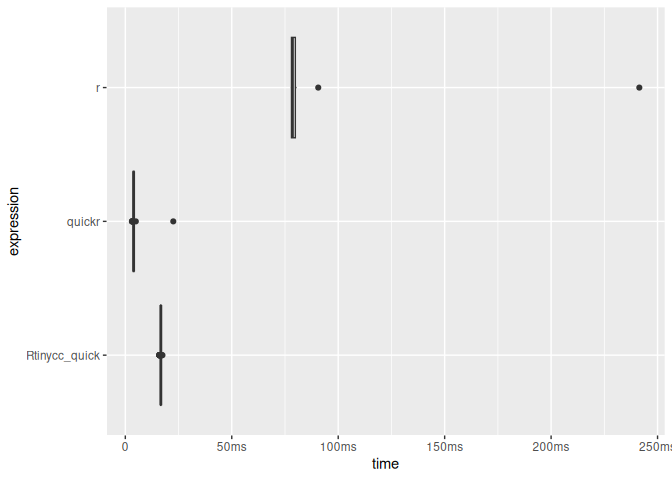
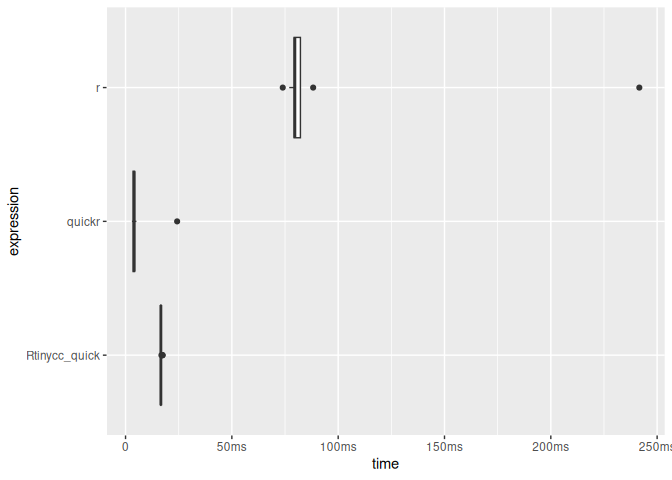
merged rjit

diff --git a/README.md b/README.md
@@ -19,9 +19,9 @@ providing both CLI access and a libtcc-backed in-memory compiler. It
 includes an experimental FFI inspired by [Bun’s
 FFI](https://bun.com/docs/runtime/ffi) for binding C symbols with
 predictable type conversions and pointer utilities. The package runs on
-unix-alikes ( windows may never be supported to subtle UCRT issues, so
-use WSL2) and focuses on embedding TinyCC and enabling JIT-compiled
-bindings directly from R. Combined with
+unix-alikes and windows( pace UCRT issues, so WSL2 is recommended) and
+focuses on embedding TinyCC and enabling JIT-compiled bindings directly
+from R. Combined with
 [treesitter.c](https://github.com/sounkou-bioinfo/treesitter.c), which
 provides C header parsers, it can be used to rapidly generate
 declarative bindings.
@@ -177,7 +177,7 @@ tcc_read_cstring(ptr)
 tcc_read_bytes(ptr, 5)
 #> [1] 68 65 6c 6c 6f
 tcc_ptr_addr(ptr, hex = TRUE)
-#> [1] "0x5970213be520"
+#> [1] "0x5e2a7b3d76b0"
 tcc_ptr_is_null(ptr)
 #> [1] FALSE
 tcc_free(ptr)
@@ -208,11 +208,11 @@ through output parameters.
 ptr_ref <- tcc_malloc(.Machine$sizeof.pointer %||% 8L)
 target <- tcc_malloc(8)
 tcc_ptr_set(ptr_ref, target)
-#> <pointer: 0x597020699530>
+#> <pointer: 0x5e2a7bbb9c90>
 tcc_data_ptr(ptr_ref)
-#> <pointer: 0x59701f35d920>
+#> <pointer: 0x5e2a7a7a7280>
 tcc_ptr_set(ptr_ref, tcc_null_ptr())
-#> <pointer: 0x597020699530>
+#> <pointer: 0x5e2a7bbb9c90>
 tcc_free(target)
 #> NULL
 tcc_free(ptr_ref)
@@ -275,8 +275,8 @@ bench::mark(
 #> # A tibble: 2 × 6
 #>   expression      min   median `itr/sec` mem_alloc `gc/sec`
 #>   <bch:expr> <bch:tm> <bch:tm>     <dbl> <bch:byt>    <dbl>
-#> 1 Rtinycc       908ms    908ms      1.10   134.1MB    11.0 
-#> 2 Rbuiltin      541µs    580µs   1165.      9.05KB     6.09
+#> 1 Rtinycc       920ms    920ms      1.09   134.1MB    10.9 
+#> 2 Rbuiltin      562µs    592µs   1154.      9.05KB     5.91
 
 # For performance-sensitive code, move the loop into C and operate on arrays.
 ffi_vec <- tcc_ffi() |>
@@ -305,8 +305,8 @@ bench::mark(
 #> # A tibble: 2 × 6
 #>   expression        min   median `itr/sec` mem_alloc `gc/sec`
 #>   <bch:expr>   <bch:tm> <bch:tm>     <dbl> <bch:byt>    <dbl>
-#> 1 Rtinycc_vec   101.2µs  106.5µs     9249.    52.8KB     6.16
-#> 2 Rbuiltin_vec   16.8µs   18.4µs    51106.    78.2KB    40.9
+#> 1 Rtinycc_vec    97.5µs  106.5µs     9244.    52.8KB     6.16
+#> 2 Rbuiltin_vec   16.5µs   17.6µs    53449.    78.2KB    42.8
 ```
 
 ### Variadic calls (e.g. `Rprintf` style)
@@ -428,7 +428,7 @@ ffi <- tcc_ffi() |>
 
 x <- as.integer(1:100) # to avoid ALTREP
 .Internal(inspect(x))
-#> @597034405820 13 INTSXP g0c0 [REF(65535)]  1 : 100 (compact)
+#> @5e2a8ffff7e8 13 INTSXP g0c0 [REF(65535)]  1 : 100 (compact)
 ffi$sum_array(x, length(x))
 #> [1] 5050
 
@@ -444,7 +444,7 @@ y[1]
 #> [1] 11
 
 .Internal(inspect(x))
-#> @597034405820 13 INTSXP g0c0 [REF(65535)]  11 : 110 (expanded)
+#> @5e2a8ffff7e8 13 INTSXP g0c0 [REF(65535)]  11 : 110 (expanded)
 ```
 
 ## Advanced FFI features
@@ -471,15 +471,15 @@ ffi <- tcc_ffi() |>
 
 p1 <- ffi$struct_point_new()
 ffi$struct_point_set_x(p1, 0.0)
-#> <pointer: 0x59702cad8b00>
+#> <pointer: 0x5e2a88717050>
 ffi$struct_point_set_y(p1, 0.0)
-#> <pointer: 0x59702cad8b00>
+#> <pointer: 0x5e2a88717050>
 
 p2 <- ffi$struct_point_new()
 ffi$struct_point_set_x(p2, 3.0)
-#> <pointer: 0x597026a2a4f0>
+#> <pointer: 0x5e2a9464cf20>
 ffi$struct_point_set_y(p2, 4.0)
-#> <pointer: 0x597026a2a4f0>
+#> <pointer: 0x5e2a9464cf20>
 
 ffi$distance(p1, p2)
 #> [1] 5
@@ -524,9 +524,9 @@ ffi <- tcc_ffi() |>
 
 s <- ffi$struct_flags_new()
 ffi$struct_flags_set_active(s, 1L)
-#> <pointer: 0x597032691e80>
+#> <pointer: 0x5e2a828ea190>
 ffi$struct_flags_set_level(s, 9L)
-#> <pointer: 0x597032691e80>
+#> <pointer: 0x5e2a828ea190>
 ffi$struct_flags_get_active(s)
 #> [1] 1
 ffi$struct_flags_get_level(s)
@@ -818,7 +818,7 @@ ffi <- tcc_ffi() |>
   tcc_compile()
 
 ffi$struct_point_new()
-#> <pointer: 0x59702ed7de00>
+#> <pointer: 0x5e2a88769e50>
 ffi$enum_status_OK()
 #> [1] 0
 ffi$global_global_counter_get()
@@ -934,11 +934,11 @@ if (Sys.info()[["sysname"]] == "Linux") {
 #> # A tibble: 5 × 13
 #>   expression     min  median `itr/sec` mem_alloc `gc/sec` n_itr  n_gc total_time
 #>   <bch:expr> <bch:t> <bch:t>     <dbl> <bch:byt>    <dbl> <int> <dbl>   <bch:tm>
-#> 1 read_tabl…  47.1ms 47.87ms      20.9    6.33MB        0     2     0     95.7ms
-#> 2 vroom_df_…  7.31ms  7.45ms     134.     1.22MB        0     2     0     14.9ms
-#> 3 vroom_df_…  7.57ms  7.83ms     128.     1.22MB        0     2     0     15.7ms
-#> 4 c_read_df  21.23ms 21.34ms      46.9    1.23MB        0     2     0     42.7ms
-#> 5 io_uring_… 20.24ms 20.34ms      49.2    1.23MB        0     2     0     40.7ms
+#> 1 read_tabl…  46.4ms 48.46ms      20.6    6.33MB        0     2     0     96.9ms
+#> 2 vroom_df_…  7.31ms  7.53ms     133.     1.22MB        0     2     0     15.1ms
+#> 3 vroom_df_…  7.67ms  7.88ms     127.     1.22MB        0     2     0     15.8ms
+#> 4 c_read_df  20.99ms 21.16ms      47.3    1.23MB        0     2     0     42.3ms
+#> 5 io_uring_… 21.27ms 21.44ms      46.6    1.23MB        0     2     0     42.9ms
 #> # ℹ 4 more variables: result <list>, memory <list>, time <list>, gc <list>
 ```
 
@@ -1019,10 +1019,10 @@ print(timings)
 #> # A tibble: 4 × 13
 #>   expression            min   median `itr/sec` mem_alloc `gc/sec` n_itr  n_gc
 #>   <bch:expr>       <bch:tm> <bch:tm>     <dbl> <bch:byt>    <dbl> <int> <dbl>
-#> 1 R                599.43ms 600.13ms      1.67     782KB    0         4     0
-#> 2 quickr             3.73ms   4.08ms    245.       782KB    3.11    473     6
-#> 3 Rtinycc_quick     17.23ms  17.38ms     57.3      796KB    0.503   114     1
-#> 4 Rtinycc_manual_c  56.75ms  57.55ms     17.4      796KB    0        35     0
+#> 1 R                600.07ms 614.96ms      1.63     782KB     0        4     0
+#> 2 quickr             3.63ms   4.13ms    241.       782KB     2.57   470     5
+#> 3 Rtinycc_quick     17.14ms  17.35ms     57.5      796KB     1.05   110     2
+#> 4 Rtinycc_manual_c  56.73ms  57.56ms     17.4      796KB     0       35     0
 #> # ℹ 5 more variables: total_time <bch:tm>, result <list>, memory <list>,
 #> #   time <list>, gc <list>
 plot(timings, type = "boxplot") + bench::scale_x_bench_time(base = NULL)
@@ -1072,9 +1072,9 @@ timings_roll_mean
 #> # A tibble: 3 × 6
 #>   expression         min   median `itr/sec` mem_alloc `gc/sec`
 #>   <bch:expr>    <bch:tm> <bch:tm>     <dbl> <bch:byt>    <dbl>
-#> 1 r               77.8ms  78.49ms      10.6     124MB   11.5  
-#> 2 quickr           3.1ms   3.91ms     252.      781KB    0.997
-#> 3 Rtinycc_quick     16ms  16.68ms      60.3     795KB    0
+#> 1 r              73.93ms  79.63ms      10.5     124MB   11.5  
+#> 2 quickr          2.99ms   4.04ms     251.      781KB    0.997
+#> 3 Rtinycc_quick  16.52ms  16.62ms      60.0     795KB    0
 
 timings_roll_mean$expression <- factor(names(timings_roll_mean$expression), rev(names(timings_roll_mean$expression)))
 plot(timings_roll_mean, type = "boxplot") + bench::scale_x_bench_time(base = NULL)
@@ -1128,11 +1128,11 @@ ffi <- tcc_ffi() |>
 o <- ffi$struct_outer_new()
 i <- ffi$struct_inner_new()
 ffi$struct_inner_set_a(i, 42L)
-#> <pointer: 0x5970241077b0>
+#> <pointer: 0x5e2a8875f5b0>
 
 # Write the inner pointer into the outer struct
 ffi$struct_outer_in_addr(o) |> tcc_ptr_set(i)
-#> <pointer: 0x59701f1aa230>
+#> <pointer: 0x5e2a80695420>
 
 # Read it back through indirection
 ffi$struct_outer_in_addr(o) |>
@@ -1161,9 +1161,9 @@ ffi <- tcc_ffi() |>
 
 b <- ffi$struct_buf_new()
 ffi$struct_buf_set_data_elt(b, 0L, 0xCAL)
-#> <pointer: 0x597029e05ae0>
+#> <pointer: 0x5e2a93b1e7b0>
 ffi$struct_buf_set_data_elt(b, 1L, 0xFEL)
-#> <pointer: 0x597029e05ae0>
+#> <pointer: 0x5e2a93b1e7b0>
 ffi$struct_buf_get_data_elt(b, 0L)
 #> [1] 202
 ffi$struct_buf_get_data_elt(b, 1L)
